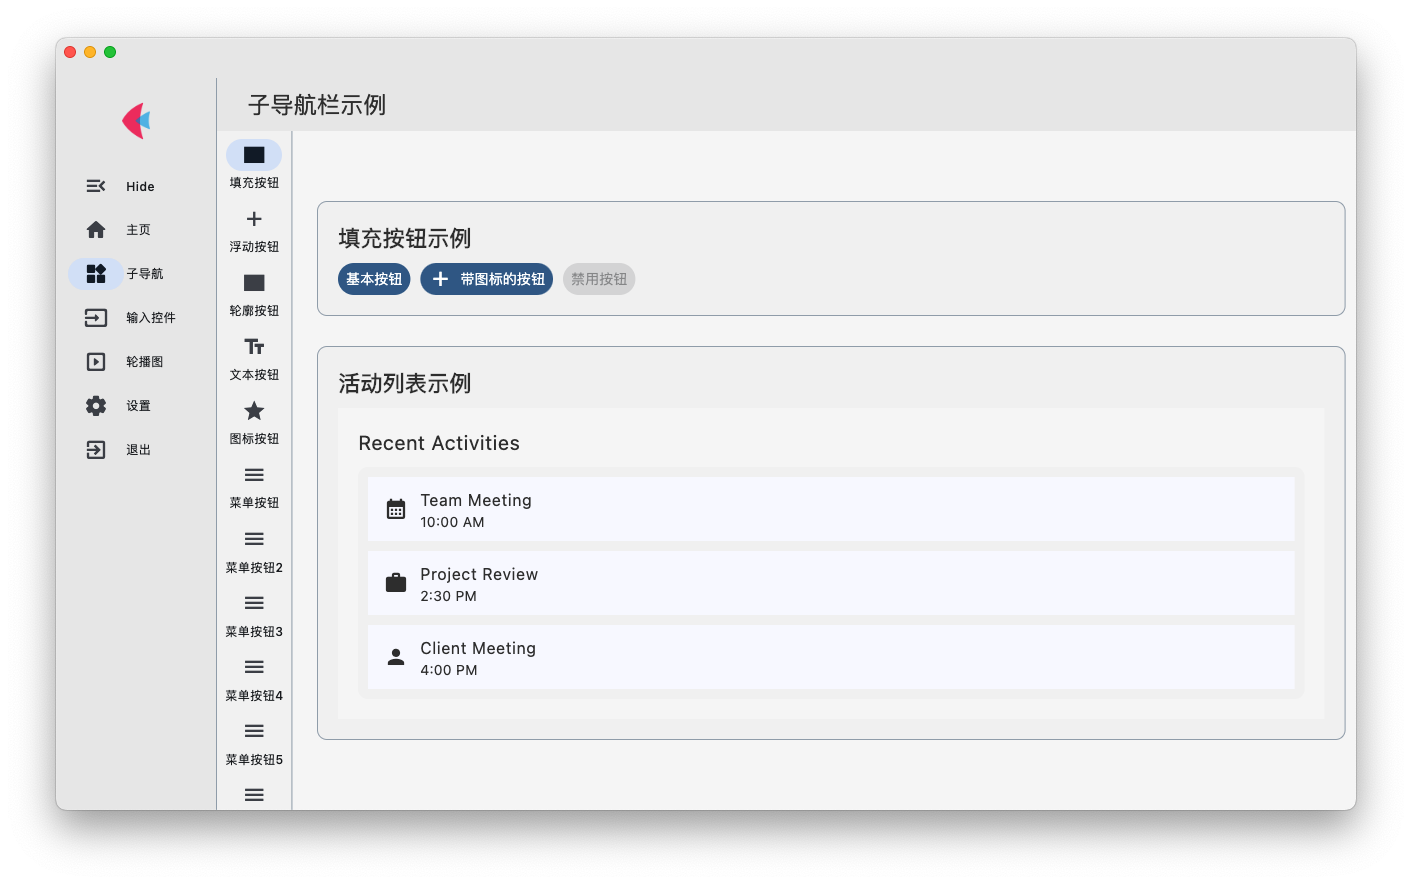
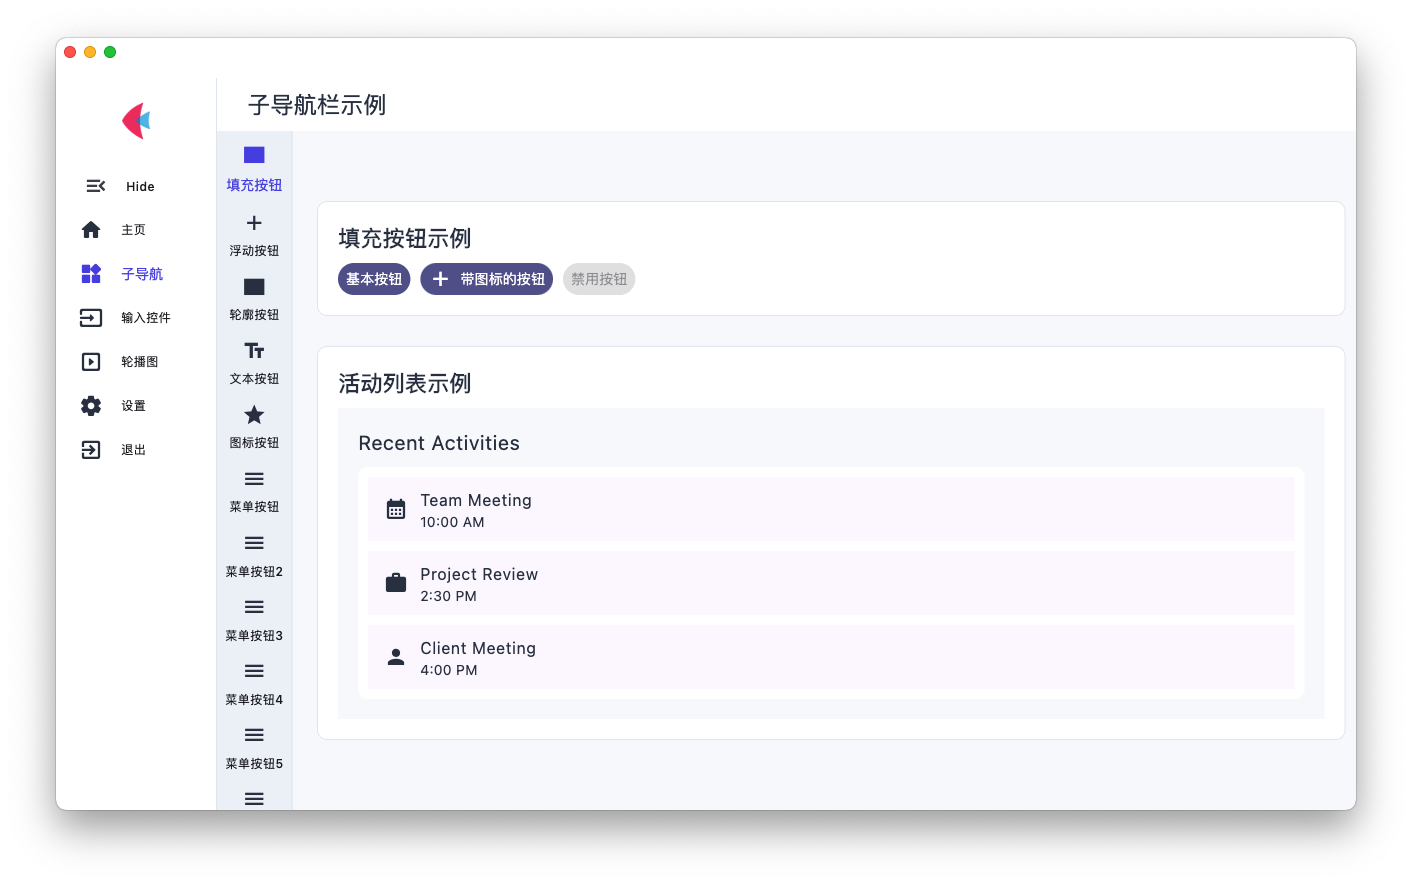
v0.2.1 - 更新主题管理，增强图像处理，并重构导航组件
- 将 config.ini 中的主题模式从暗色更改为亮色，并更新了主题颜色以提高视觉一致性。
- 在 HomePage 和 OutlinedButtonsPage 中添加了图像对话框功能，以改善用户与图像的交互。
- 重构了 app.py 和 sub_navigation_bar/app.py 中的导航栏组件，以利用新的主题颜色并改善可访问性。

Changed region(s): [[0.0312, 0.0305, 0.966, 0.9163], [0.2181, 0.2749, 0.4051, 0.336]]

diff --git a/core/app.py b/core/app.py
@@ -1,5 +1,5 @@
 import flet as ft
-from typing import Callable, Dict, Any, List
+from typing import Callable, Dict,  List
 from .theme import ThemeColors
 from .base_page import BasePage
 
@@ -56,7 +56,6 @@ class NavRail:
         destinations = [
             ft.NavigationRailDestination(
                 icon=ft.Icons.MENU_OPEN,
-                selected_icon=ft.Icons.MENU,
                 label="Hide",
                 padding=ft.padding.only(left=10) if self.is_extended else None,
             )
@@ -65,10 +64,12 @@ class NavRail:
         # 添加其他导航项
         destinations.extend([
             ft.NavigationRailDestination(
-                icon=item["icon"],
-                selected_icon=item["icon"],
+                # icon=item["icon"],
+                # selected_icon=item["icon"],
                 label=item["label"],
-                padding=ft.padding.only(left=10) if self.is_extended else None,
+                padding=ft.padding.only(left=0) if self.is_extended else None,
+                icon=ft.Icon(item["icon"], color=self.theme_colors.text_color),
+                selected_icon=ft.Icon(item["icon"], color=self.theme_colors.current_color),
             ) for item in self.nav_items
         ])
         
@@ -77,6 +78,9 @@ class NavRail:
     def build(self) -> ft.NavigationRail:
         """构建并返回导航栏对象"""
         nav = ft.NavigationRail(
+            indicator_color = self.theme_colors.nav_color,
+            bgcolor=self.theme_colors.nav_color,
+            selected_label_text_style=ft.TextStyle(color=self.theme_colors.current_color),
             selected_index=self.selected_index + 1,  # 因为添加了展开/收起按钮，所以索引需要+1            
             # 修改这2个属性来修改导航栏的显示方式
             label_type="selected" if self.is_extended else "none",
@@ -84,10 +88,8 @@ class NavRail:
             # label_type=ft.NavigationRailLabelType.ALL,
             # extended=False,
             
-            
             min_width=60,
             min_extended_width=150,
-            bgcolor=self.theme_colors.nav_color,
             leading=self._build_title(),
             destinations=self._build_destinations(),
             on_change=self.on_change,
@@ -267,7 +269,7 @@ class App:
             app_title=self.config.app_title,
         )
         
-        return ft.Column(
+        layout = ft.Column(
             controls=[
                 # 添加标题栏
                 title_bar.build(),
@@ -304,6 +306,8 @@ class App:
             expand=True,
             spacing=0,
         )
+        
+        return layout
 
     def _handle_nav_change(self, e):
         """处理导航栏切换事件"""
@@ -402,6 +406,7 @@ class App:
 
         # 更新主题颜色
         self.theme_colors = ThemeColors(is_dark=is_dark)
+        self.theme_colors.current_color = self.page.theme.color_scheme_seed
 
         # 更新导航栏的主题颜色
         if self.nav_rail:

diff --git a/pages/home.py b/pages/home.py
@@ -58,21 +58,40 @@ class HomePage(BasePage):
             # 忽略在页面重建过程中的更新错误
             pass
 
+    def show_img_dialog(self, e, img_src):
+        self.image_dialog.content.src = img_src
+        self.page.open(self.image_dialog)
+        self.page.update()
+    
+    def close_img_dialog(self, e):
+        self.page.close(self.image_dialog)
+        self.page.update()
+
     def _build_carousel(self) -> ft.Container:
         """构建轮播图"""
         # 根据窗口的大小来修改轮播图显示的数量
+        # 添加图片对话框
+        self.image_dialog = ft.AlertDialog(
+            content=ft.Image(
+                width=800,
+                fit=ft.ImageFit.CONTAIN,
+            ),
+            actions=[
+                ft.TextButton("关闭", on_click=self.close_img_dialog),
+            ],
+        )
         items_count = 4 if self.page.width > 800 else 3
 
         # 轮播图项目
         carousel_items = [
             ft.Container(
-                content=ft.Text(value=str(i), size=20),
-                height=200,
-                width=300,
-                bgcolor=self.theme_colors.divider_color,
-                border_radius=15,
-                alignment=ft.alignment.center,
-            ) for i in range(10)
+                ft.Image(
+                    src=f"/images/screenshot{i}.png",
+                    width=300,
+                    fit=ft.ImageFit.CONTAIN,
+                ),
+                on_click=lambda e, img_num=i: self.show_img_dialog(e, f"/images/screenshot{img_num}.png"),
+            ) for i in range(1, 5)            
         ]
 
         # 导航按钮
@@ -118,7 +137,7 @@ class HomePage(BasePage):
         """
         子线程的方式：加载按钮动画
         
-        所有的点击事件都需要一个默认参数，所��添加e参数
+        所有的点击事件都需要一个默认参数，所以添加e参数
         """
         self.set_button_loading(self.loading_button_thread, True)
         self.loading_button_thread.disabled = True
@@ -224,7 +243,7 @@ class HomePage(BasePage):
         )
 
     def _build_progress_section(self) -> ft.Container:
-        """构建进度部分"""
+        """构建进度���分"""
         container = ft.Container(
             content=ft.Column([
                 ft.Text("Project Progress", size=20,

diff --git a/core/theme.py b/core/theme.py
@@ -2,20 +2,26 @@ from dataclasses import dataclass
 
 @dataclass
 class ThemeColors:
+    current_color: str = ""
     def __init__(self, is_dark: bool = True):
         if is_dark:
-            self.title_bar_color = "#1E2228"
-            self.bg_color = "#141518"
-            self.nav_color = "#1E2228"
-            self.sub_nav_color = "#141820"
-            self.card_color = "#1E2228"
-            self.divider_color = "#0A0A0C"
-            self.text_color = "#EEEEEE"
+            self.title_bar_color = "#1E1E2E"
+            self.bg_color = "#171721"
+            self.nav_color = "#22222E"
+            self.sub_nav_color = "#2A2A3C"
+            self.card_color = "#262636"
+            self.divider_color = "#34344A"
+            self.text_color = "#E2E2E6"
+            self.accent_color = "#7C5CFF"
+            self.secondary_accent = "#FF7A93"
         else:
-            self.title_bar_color = "#E9E9E9"  # 标题栏背景色 
-            self.bg_color = "#F6F6F6"  # 更柔和的背景色
-            self.nav_color = "#E9E9E9"  # 更清淡的导航背景色
-            self.sub_nav_color = "#F3F3F3"  # 更清淡的子导航背景色
-            self.card_color = "#F2F2F2"  # 使用纯白色卡片，增加对比
-            self.divider_color = "#9AA6B2"  # 稍微深一点的分隔线颜色
-            self.text_color = "#333333"  # 更深的文本颜色，增加可读性
+            # 保持浅色主题不变，因为您对它已经满意
+            self.title_bar_color = "#FFFFFF"
+            self.bg_color = "#F7F9FC"
+            self.nav_color = "#FFFFFF"
+            self.sub_nav_color = "#EDF2F7"
+            self.card_color = "#FFFFFF"
+            self.divider_color = "#E2E8F0"
+            self.text_color = "#2D3748"
+            self.accent_color = "#4C6FFF"
+            self.secondary_accent = "#FF6B6B"

diff --git a/pages/settings.py b/pages/settings.py
@@ -61,13 +61,14 @@ class SettingsPage(BasePage):
                         ])
                     )
                     for name, color in [
-                        ("蓝色", ft.Colors.BLUE.value),
-                        ("绿色", ft.Colors.GREEN.value),
-                        ("红色", ft.Colors.RED.value),
-                        ("紫色", ft.Colors.PURPLE.value),
-                        ("橙色", ft.Colors.ORANGE.value),
-                        ("粉色", ft.Colors.PINK.value),
-                        ("青色", ft.Colors.CYAN.value)
+                        ("淡蓝色", "#6E9ECF"),
+                        ("靛蓝", "#4F46E5"),
+                        ("翠绿", "#10B981"),
+                        ("珊瑚", "#F43F5E"),
+                        ("琥珀", "#F59E0B"),
+                        ("紫水晶", "#8B5CF6"),
+                        ("青碧", "#06B6D4"),
+                        ("玫瑰金", "#F472B6")
                     ]
                 ],
                 on_change=lambda e: self._handle_theme_color_change(e.data),
@@ -244,6 +245,11 @@ class SettingsPage(BasePage):
         )
         if self.config_manager:
             self.config_manager.set("Theme", "color", color)
+            
+        if self.on_theme_changed:
+            self.theme_colors.current_color = self.page.theme.color_scheme_seed
+            theme_mode = self.config_manager.get("Theme", "mode", "dark")
+            self.on_theme_changed(theme_mode)
         self.page.update()
 
     def _handle_nav_rail_change(self, e):

diff --git a/pages/sub_navigation_bar/outlined_buttons.py b/pages/sub_navigation_bar/outlined_buttons.py
@@ -7,7 +7,20 @@ class OutlinedButtonsPage(BasePage):
     def __init__(self, **kwargs):
         super().__init__(title="轮廓按钮", **kwargs)
         
+    def show_img_dialog(self, e):
+        # self.image_dialog.open = True
+        self.page.open(self.image_dialog)
+        
     def build_content(self) -> ft.Control:
+        self.image_dialog = ft.AlertDialog(
+            content=ft.Image(
+                src="/images/screenshot1.png",
+                width=800,
+                fit=ft.ImageFit.CONTAIN,
+            ),
+            actions_alignment=ft.MainAxisAlignment.END,
+        )
+        
         return ft.Column([
             ft.Container(height=20),
             ft.Row(
@@ -23,5 +36,19 @@ class OutlinedButtonsPage(BasePage):
                     ),
                 ],
                 spacing=10,
+            ),
+            ft.Container(height=20),
+            self.build_section(
+                "图片展示", 
+                ft.Container(
+                    content=ft.Image(
+                        src="/images/screenshot1.png",
+                        width=600,
+                        fit=ft.ImageFit.CONTAIN,
+                    ),
+                    on_click=self.show_img_dialog,
+                    ink=True,  # 添加点击效果
+                    tooltip="点击查看大图",  # 添加提示文本
+                ),
             ),
         ]) 

diff --git a/pages/sub_navigation_bar/app.py b/pages/sub_navigation_bar/app.py
@@ -51,10 +51,12 @@ class SubNavigationBar(BasePage):
             min_width=60,
             # min_extended_width=100,
             bgcolor=self.theme_colors.sub_nav_color,
+            indicator_color=self.theme_colors.sub_nav_color,
+            selected_label_text_style=ft.TextStyle(color=self.theme_colors.current_color),
             destinations=[
                 ft.NavigationRailDestination(
-                    icon=page_info["icon"],
-                    selected_icon=page_info["icon"],
+                    icon=ft.Icon(page_info["icon"], color=self.theme_colors.text_color),
+                    selected_icon=ft.Icon(page_info["icon"], color=self.theme_colors.current_color),
                     label=page_info["label"],
                 )
                 for page_info in self._pages

diff --git a/main.py b/main.py
@@ -37,7 +37,7 @@ def main(page: ft.Page):
     # 设置主题色
     theme_color = config_manager.get("Theme", "color", ft.Colors.BLUE)
     page.theme = ft.Theme(color_scheme_seed=theme_color)
-    
+
     # 创建应用实例
     app = App(config)
     

diff --git a/config/version.py b/config/version.py
@@ -1,4 +1,4 @@
-VERSION = "0.2.0"
+VERSION = "0.2.1"
 APP_DESCRIPTION = """
 PyDracula-flet 是一个基于 Flet 参考 PyDracula 构建的现代化桌面应用程序框架。
 它提供了：
